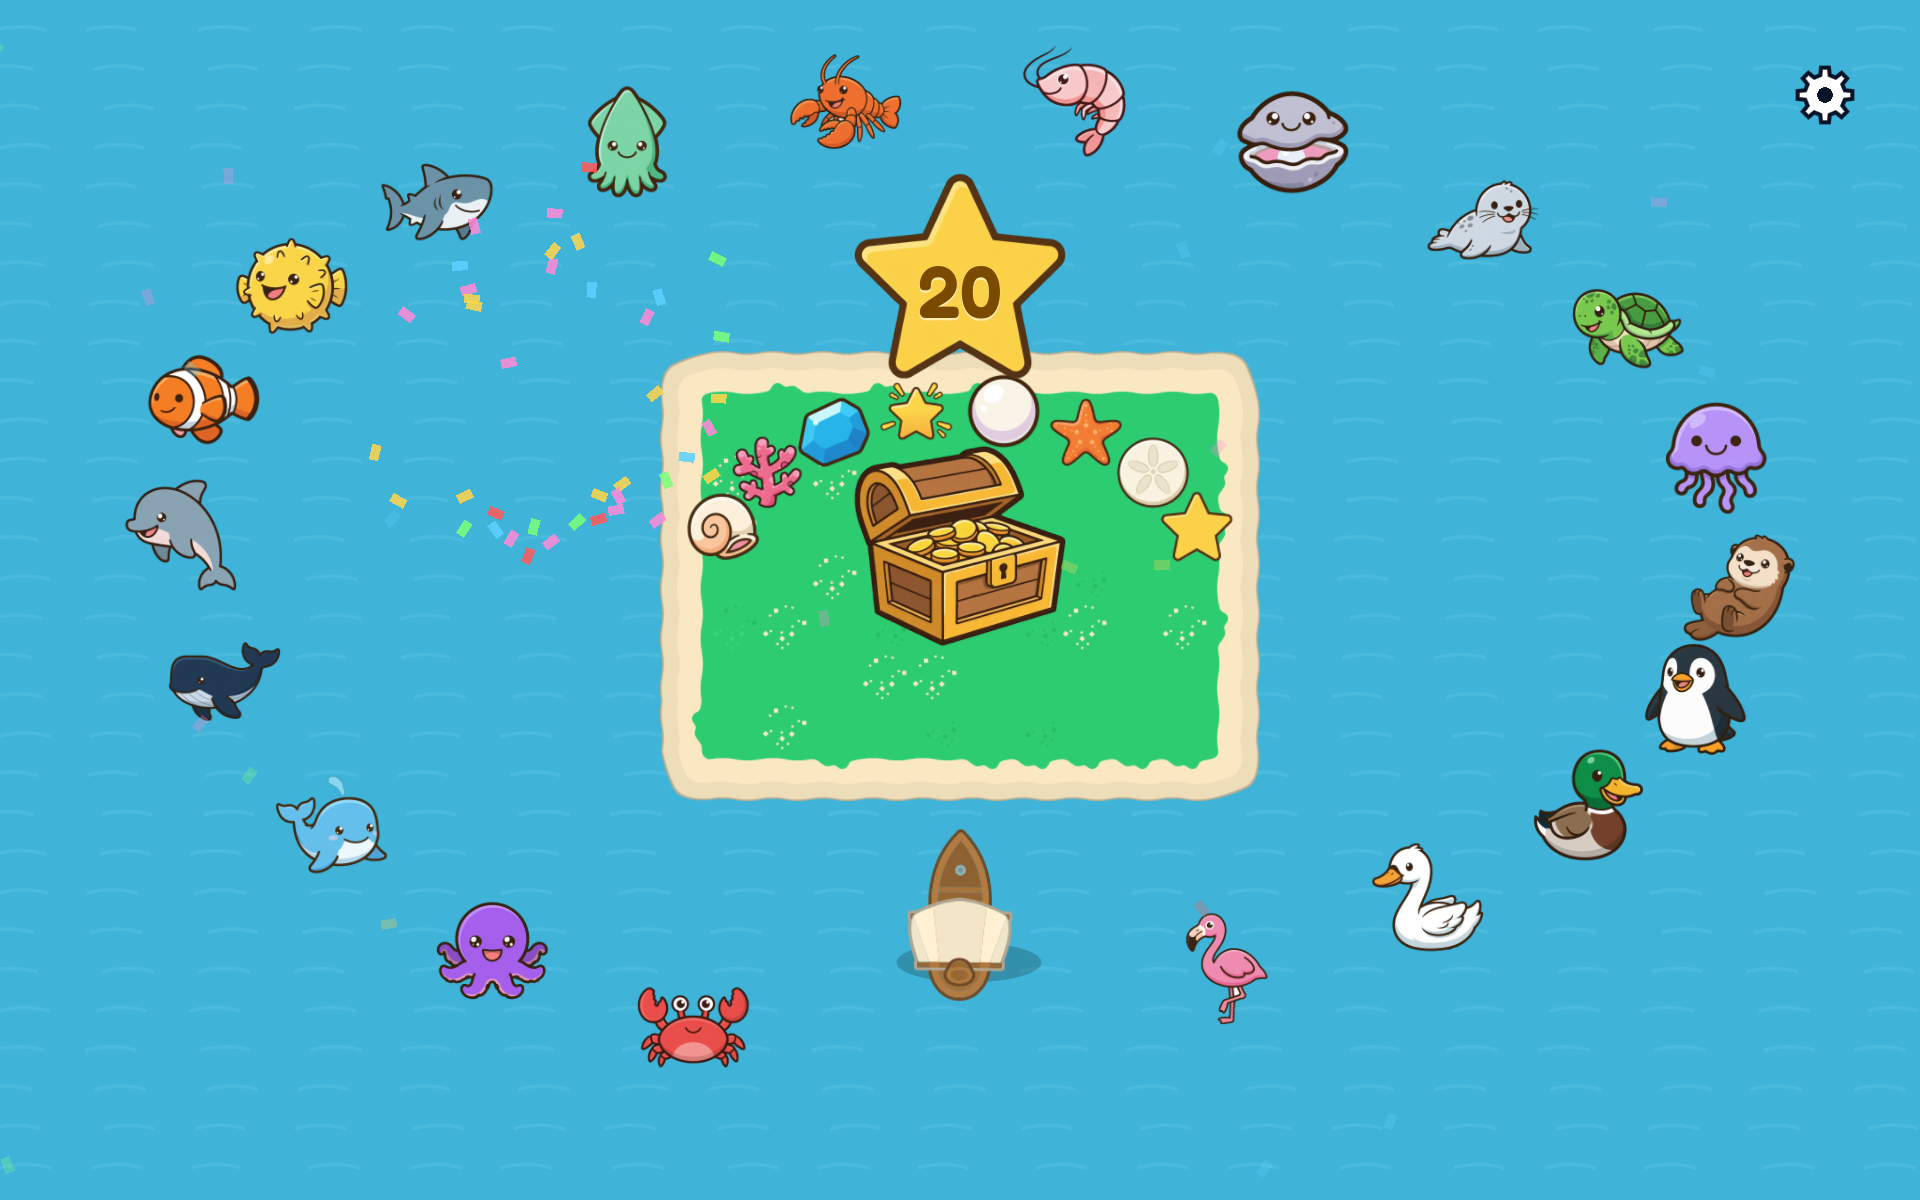
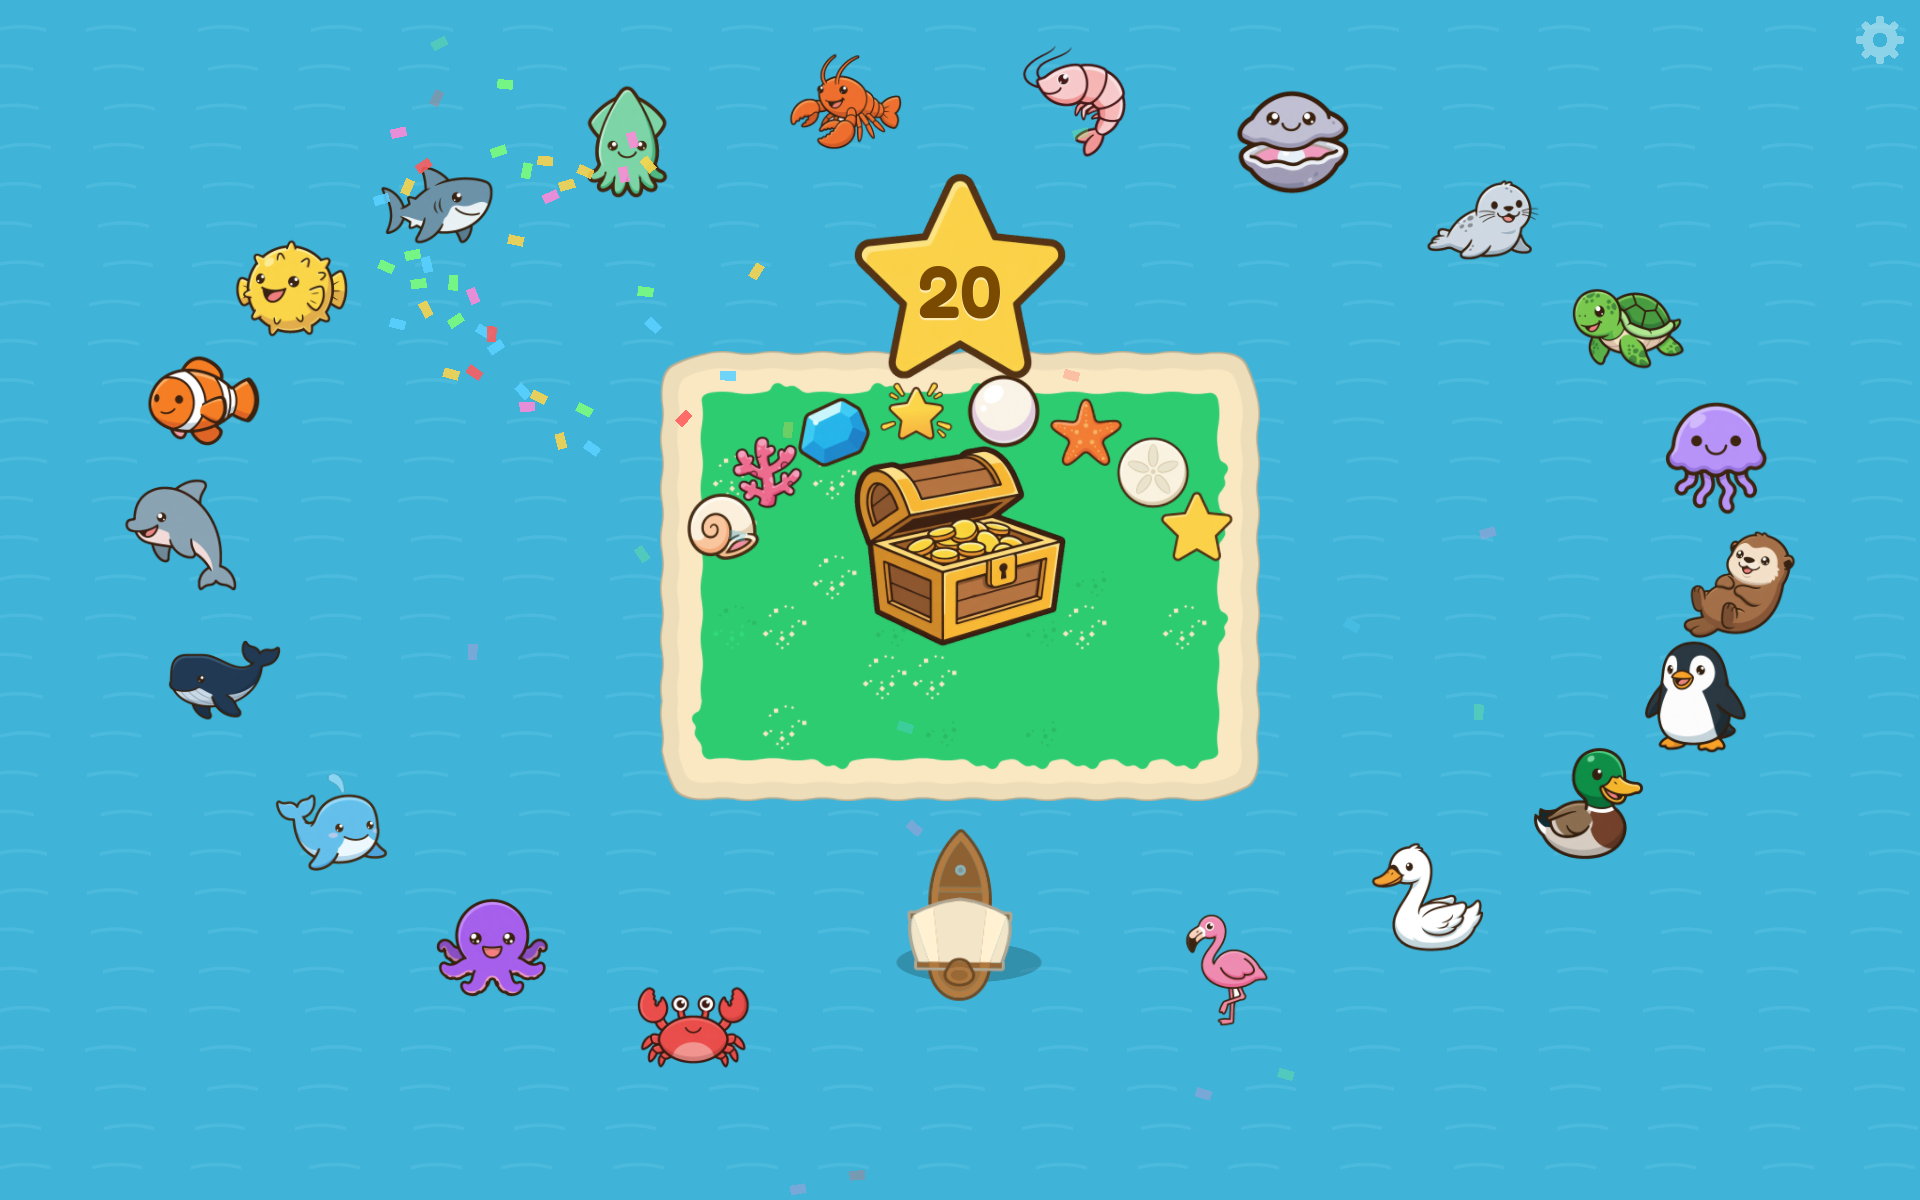
Ticket 07: take the Party shot again after the merge, and add the measurements

diff --git a/.scratch/game-flow/issues/07-party.md b/.scratch/game-flow/issues/07-party.md
@@ -18,3 +18,5 @@
 - [x] The build spec (`.scratch/labyrinth-game/spec.md`) gets errata for each section that this ticket changes.
 
 Build note (gf/07-party): The new node `Party` (`src/party_view.gd`, `PartyView`) sits in `main.tscn` after `Opening` and before `Gear`, so the gear stays above it and the Fade covers it. The main scene keeps the Goal celebration of Labyrinth 20 as it is up to the flamingo in its slot (3.7 s). At 4.2 s it emits `party_coming` in place of `next_labyrinth_coming` and fades to dark. At 4.7 s it shows the still Party picture in place of the next Labyrinth and fades in. At 5.2 s (the end of the fade-in) the Party timeline starts and `party_started` fires. So the timeline of spec part 4 starts at the end of the fade-in, and the Child sees each pop. A press after the first 3.0 s fades to dark in 500 ms, then the opening screen shows and fades in in 500 ms. The Collection strip hides on the Party, as on the opening screen. `show_party()` shows the Party at once and starts it, for tests and the shot tool. The picture uses the prototype values times 1.2 (1600 × 1000 to 1920 × 1200) and scales with `min(Hv / 1200, Wv / 1920)`, so the ring of 1680 px fits on a 4:3 screen too. Island: `IslandLook.block(4 × 3)` of 150 px tiles, through the new `OpeningScreen.new_island()` that the opening screen now uses too. Chest 228 px wide. Boat 180 px long with its bow up, and it rocks. Ring radii (780, 480) px, Sea friends 120 px. Star 228 px, number 73 px. Values that the spec does not give: the pop of the prototype `popin` (0 to 1.25 in 350 ms `out`, then 1 in 150 ms); the 8 Item kinds and their arc of the prototype; the Item flight of 0.7 s with `back`; the confetti of the build spec (40 pieces, not the 70 of the prototype) for the chest burst and the loop bursts, scaled by `h`; the burst place in x −600 to +600 px and y 240 to 720 px. The wave height is 40 px of the HUD scale (`h`), as the spec says, so 63 px at 1200, not the 48 px of the prototype. Sound: the music crossfades to Area 1 at the fade to the Party (the spec gives no Party music). Each Sea friend sound file has its own player (polyphony 4) in `Sound.play_party_friend()`, so the 20 sounds overlap, as in the prototype. The chest plays `goal.wav`. The Party loads its 20 Sea friend pictures at its first show, not at launch: a load at launch made the first frame after a launch about 90 ms longer, and the opening screen test of the 140 ms button press failed. One frame moves the Party time by at most 1/30 s (times the time scale), so the slow frame of that load does not skip the first pops. A person must check `shots/party.png` against the prototype, round 1, variant B, and the sound of 20 overlapping Sea friend sounds on the Mac.
+
+Measurements (gf/07-party): after the merge of the `game-flow` tip (tickets 08, 10 and 03b), the suite gives `Results: 54652 passed, 0 failed`, the Python port passes, the smoke run prints `SMOKE OK: 3 Goals, no failure`, and the shot tool takes `shots/party.png` again with the quiet gear of ticket 08. As the second of 07 and 10 to merge, this branch adds the test "no hop on the Party" of the ticket 10 note to `tests/test_idle_hint.gd` and ticks its box in the ticket 10 file. The idle hint does not hop on the Party, because the input of the Labyrinth stays locked there.
